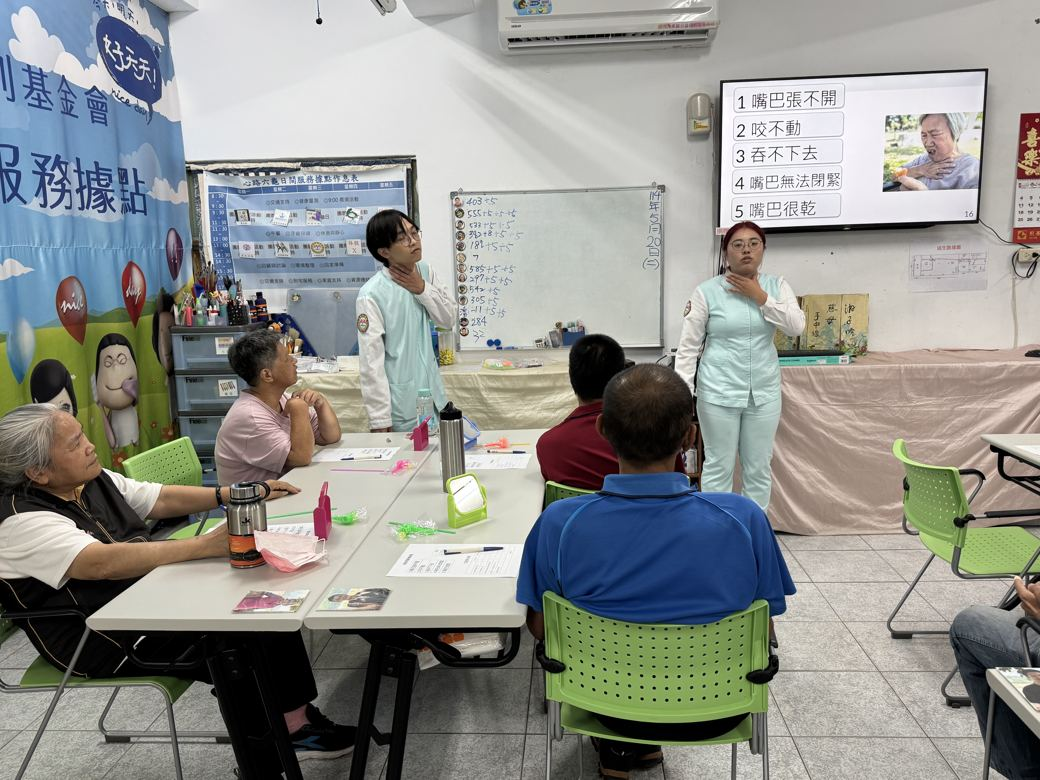
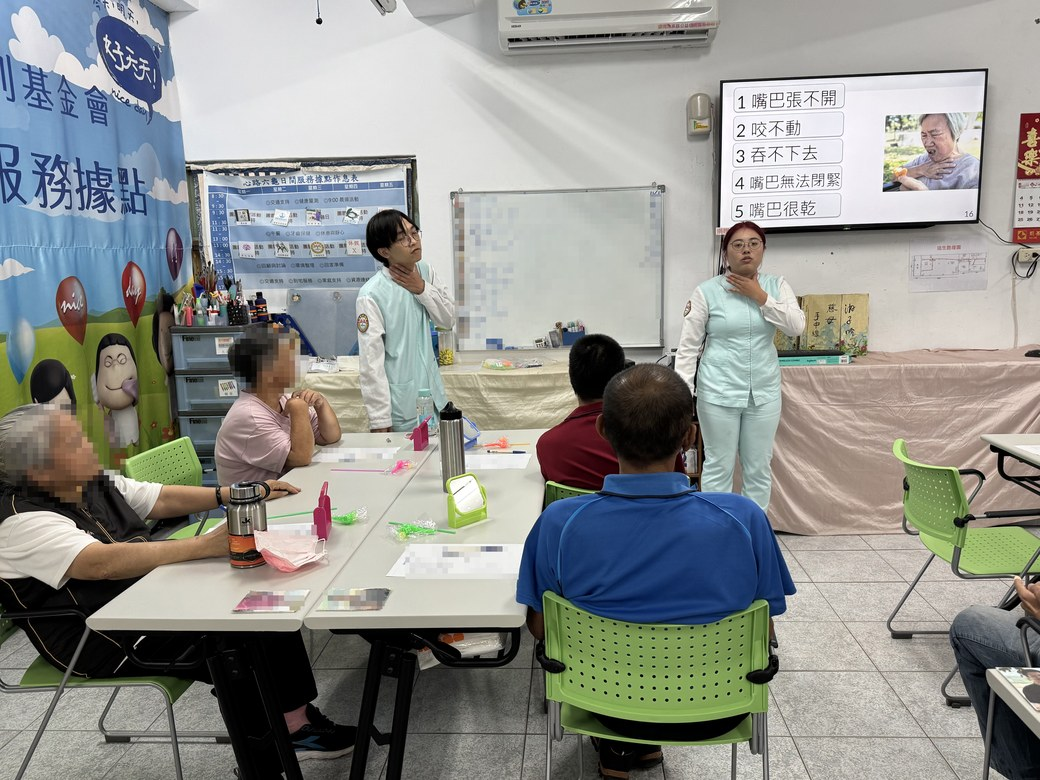
影像合規修正(N10):partner-tutor 裁除白板學生姓名分數欄、about-special 改用去識別化版;上傳指引之規範段落改為指向 laonong-usr D 檔;新增 CLAUDE.md(精簡規範,裁定 Q6-甲)

diff --git a/上傳指引.md b/上傳指引.md
@@ -3,9 +3,14 @@
 ## 版本
 v10（2026 年 7 月）｜前版 v9
 
+> 本檔為**上傳作業之操作說明**。網站內容之現況與待修訂項目，正本為 `laonong-usr` 之 **D 檔**（見下節）；
+> 本檔之「v10 變更摘要」與「與小冊子的對應」兩節屬**歷史紀錄**，不作為現況依據。
+
 ## 上傳方式
-將本資料夾內全部檔案（含 `img/`）上傳至 GitHub repository，覆蓋原有檔案。
+本 repo 已於 2026-08-20 clone 至 `~/Projects/website/laonong-website/`，改以 git 推送：
+於該目錄 `git add` → `git commit` → `git push origin main`。
 GitHub Pages 會自動重新部署，約 1–3 分鐘後生效。
+（沿用舊法亦可：將檔案於 GitHub 網頁介面上傳並覆蓋。）
 
 **注意**：`img/lu-yinhsuan.jpg` 為新增檔案，請確認一併上傳，否則 about 與 partner 兩頁會出現破圖。
 
@@ -28,10 +33,40 @@ GitHub Pages 會自動重新部署，約 1–3 分鐘後生效。
 - 心路基金會成效 → 小冊子 P7
 - 假日學堂班級數與人數 → 小冊子 P6
 
-## 用語紅線（後續修改時務必遵守）
+## 規範正本的位置（2026-08-20 起）
 
-1. 主軸一全稱為「**良善陪伴與多元探索**」，不得寫成「多元發展」。
-2. 假日學堂現行合作學校為**龍興國小、新發國小**兩校。六龜國小的假日學堂合作已於 2026 年 6 月結束，但其 MOU 仍有效，故 `about` 頁的場域學校（MOU 名單）保留六龜國小，課程說明處則不得列入。
-3. 中央社出處固定寫為「（中央社訊息平台，2026 年 1 月）」，不得寫成「中央社報導」。
-4. 心路基金會成效的依據為在地牙醫師臨床觀察，非統計數據，「在地牙醫師觀察」等字樣不得刪除。
-5. 不得自行增補人名、社團名、單位名或功勞歸屬。
+**本網站為計畫四種對外文件之一，紅線 N1–N20 全部適用。**
+規範與現況之正本一律在 `~/Projects/laonong-usr/`，本檔**不再保留規範副本**：
+
+| 要查什麼 | 正本位置 |
+|---|---|
+| **網站現況、各頁內容、待修訂項目** | `L1_規範層/D_網站v10現況`（**本檔之上位正本**） |
+| 紅線 N1–N20 完整條文與例外 | `L1_規範層/A_核心事實與紅線` |
+| 色彩、字型、排版規範 | `L1_規範層/B_視覺與規格規範` |
+| 圖片授權、使用限制、禁用清單 | `L1_規範層/G_圖片manifest`（**換圖前務必查**） |
+| 出稿前檢核程序 | `L1_規範層/H_產出品保與檔頭規範` Pass 1／Pass 2 |
+
+### 最低限度提醒（摘要，非正本；與上表各檔不一致時一律以正本為準）
+
+1. 主軸一全稱為「**良善陪伴與多元探索**」，不得寫成「多元發展」（N1）。
+2. 假日學堂現行合作學校為**龍興國小、新發國小**兩校；六龜國小之假日學堂合作已於 2026 年 6 月結束，但 MOU 仍有效——`about` 頁場域學校（MOU 名單）保留六龜國小，課程說明處不得列入（N5／N6）。
+3. 中央社出處固定寫為「（中央社訊息平台，2026 年 1 月）」，不得寫成「中央社報導」（N4）。
+4. 心路基金會成效之依據為在地牙醫師臨床觀察，非統計數據，「在地牙醫師觀察」等字樣不得刪除（N15）。
+5. 不得自行增補人名、社團名、單位名或功勞歸屬（N11）。
+6. **選圖、換圖一律先查 G 檔**：照片中可辨識的白板／簡報／海報文字須逐張檢查（N10）；幼兒影像僅用遮擋版（N9／N12）。
+
+
+---
+
+## 影像修正紀錄
+
+### 2026-08-20｜兩張圖替換（N10）
+
+clone 後與圖庫逐張溯源比對，發現兩張現行違規影像，已替換：
+
+| 檔案 | 問題 | 處置 |
+|---|---|---|
+| `img/partner-tutor.jpg` | 白板左側含**可辨識學生姓氏＋分數**七列（1400×1050，公開可讀）。對應圖庫 `112-2_axis1_tutoring_nibun_whiteboard-class_01`，該檔於 G 檔列為**對外禁用** | 改用**裁除左側名單欄**之版本（自圖庫原檔重製，4:3、1400×1050，尺寸與原檔一致，版面不受影響） |
+| `img/about-special.jpg` | 為心路照片**去識別化前**之版本，白板可見學員頭像與個別數值 | 改用 2026-08-20 完成之**去識別化版**（服務對象面部全數馬賽克、白板全區模糊），等比縮至 1040×780 |
+
+> 後續換圖一律先查 `laonong-usr/L1_規範層/G_圖片manifest` 之禁用清單與逐檔使用限制。

diff --git a/CLAUDE.md b/CLAUDE.md
@@ -1,0 +1,51 @@
+# CLAUDE.md｜永續荖濃 USR 網站(kmu-usr.github.io)
+
+> 本檔為**精簡規範**(裁定 Q6-甲 之配套,比照 D11-乙)。
+> 規範正本一律在 `~/Projects/laonong-usr/`,本檔只指路,不複製條文。
+> 建立日期:2026-08-20。
+
+## 〇、本目錄性質
+
+| 項目 | 內容 |
+|---|---|
+| 這是什麼 | 永續荖濃 USR 網站原始碼(純靜態 HTML,無 Jekyll／CI) |
+| GitHub | `kmu-usr/kmu-usr.github.io`(**public**,GitHub Pages) |
+| 帳號 | 屬 **kmu-usr** 帳號,與 laonong-usr 所在之個人帳號不同。個人帳號 `SynchronicEros` 已於 20260820 加為協作者(write) |
+| 本地路徑 | `~/Projects/website/laonong-website/`(裁定 **Q6-甲**,變更 Q3-乙 原路徑) |
+| 現況版本 | **v10**(2026 年 7 月) |
+
+## 一、最重要的三條
+
+1. **本網站為計畫四種對外文件之一,紅線 N1–N20 全部適用**,不因是網頁而放寬。
+2. **推送即對外發布**。任何 `git push` 一律**先經使用者明示同意**;
+   推送後 GitHub Pages 於 1–3 分鐘內生效,無法「先發再改」。
+3. **本目錄內容不得複製進 `laonong-usr`**(裁定 Q3-乙／Q6-甲),反向亦不得將
+   laonong-usr 之規範檔複製到此處——一律用指向,不用副本。
+
+## 二、規範正本在哪裡
+
+| 要查什麼 | 正本 |
+|---|---|
+| **網站現況、逐頁內容、待修訂項目** | `~/Projects/laonong-usr/L1_規範層/D_網站v10現況`(**本目錄之上位正本**;內容變更須回寫 D 檔) |
+| 紅線 N1–N20 完整條文與例外 | 同上目錄 `A_核心事實與紅線`(**優先於本檔**) |
+| 色彩、字型、排版規範 | `B_視覺與規格規範`(主色 `#1F4E79`;不得改綠系或其他色系) |
+| **圖片授權、使用限制、禁用清單** | `G_圖片manifest`(**選圖、換圖前務必查第三節禁用清單與第四節逐檔限制**) |
+| 出稿前檢核 | `H_產出品保與檔頭規範` Pass 1／Pass 2 |
+| 歷次裁定之代號與理由 | `決策紀錄` |
+
+> 衝突時一律以 A 檔為準。本檔與上表任一檔不一致時,以上表為準,並回報使用者。
+
+## 三、常見作業之注意事項
+
+- **改文字**:先查 A 檔紅線與 D 檔現況;改完回寫 D 檔(D 檔為現況正本,不可只改網站不更新 D 檔)。
+- **換圖**:先查 G 檔。圖庫在 `~/Projects/laonong-usr/images/`;**網站 `img/` 用的是縮尺寸副本**,
+  檔名另一套(如 `about-steam.jpg`),與圖庫命名規則(R1-甲)無關,但**影像合規規則完全適用**。
+  20260820 已完成全站 30 張照片之溯源比對,全部有圖庫對應。
+- **上傳作業說明**:見本目錄 `上傳指引.md`(操作說明;其規範段落已於 20260820 改為指向 D 檔)。
+- **人名、單位名、功勞歸屬**:一律不得自行增補或改寫(N11),需補充時回報使用者。
+
+## 四、與上層規則的關係
+
+- 上層 `~/Projects/CLAUDE.md` 之通用規則(繁體中文回覆、刪除前先詢問等)適用於本目錄。
+- **檔名版本制(`名稱_v版本號_日期`)不適用於本目錄之網站檔案**——網站檔名由 HTML 結構決定,
+  版本以 D 檔所載之網站版號(現為 v10)管理。
